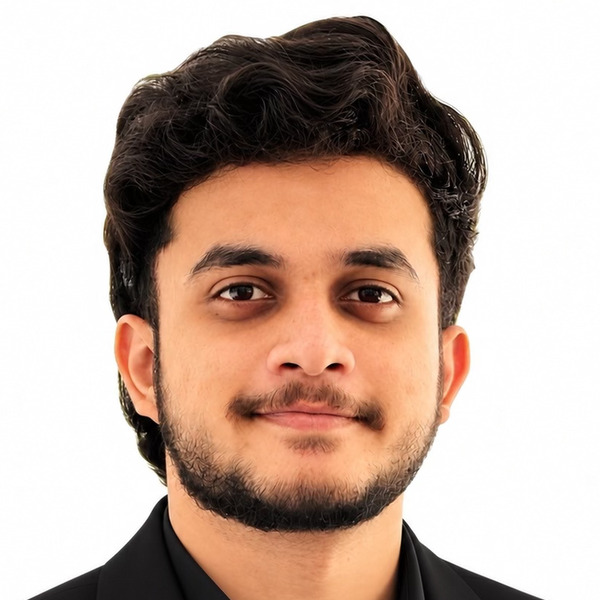
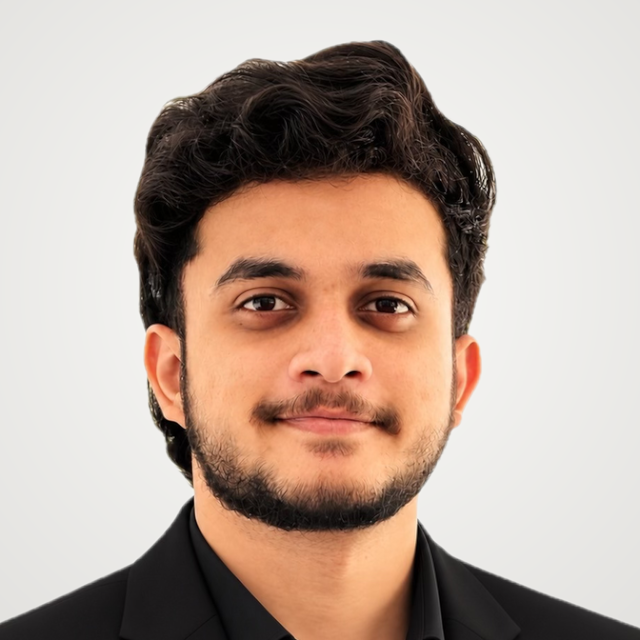
Polish profile photo with studio backdrop and soft shadow

diff --git a/src/app/page.tsx b/src/app/page.tsx
@@ -187,7 +187,7 @@ export default function Home() {
                 width={240}
                 height={240}
                 priority
-                className="size-24 rounded-full object-cover object-top ring-4 ring-white md:size-30"
+                className="size-24 rounded-full object-cover object-top shadow-[0_10px_30px_rgba(22,22,22,0.12)] ring-4 ring-white md:size-30"
               />
               <span className="absolute -right-24 top-8 rotate-[10deg] rounded-full bg-white px-3.5 py-2 text-[13px] font-semibold shadow-[0_4px_14px_rgba(0,0,0,0.08)] md:-right-26 md:top-10">
                 {profile.name} 👋
